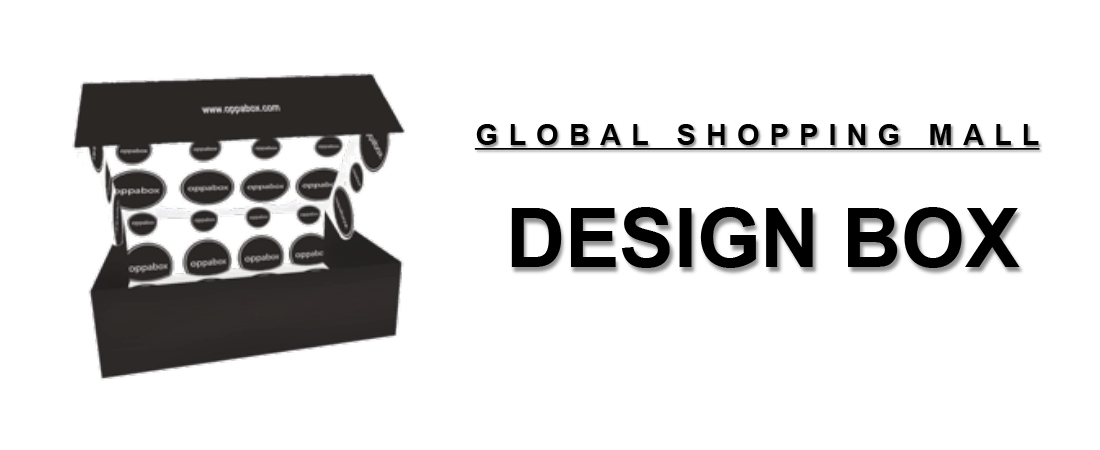
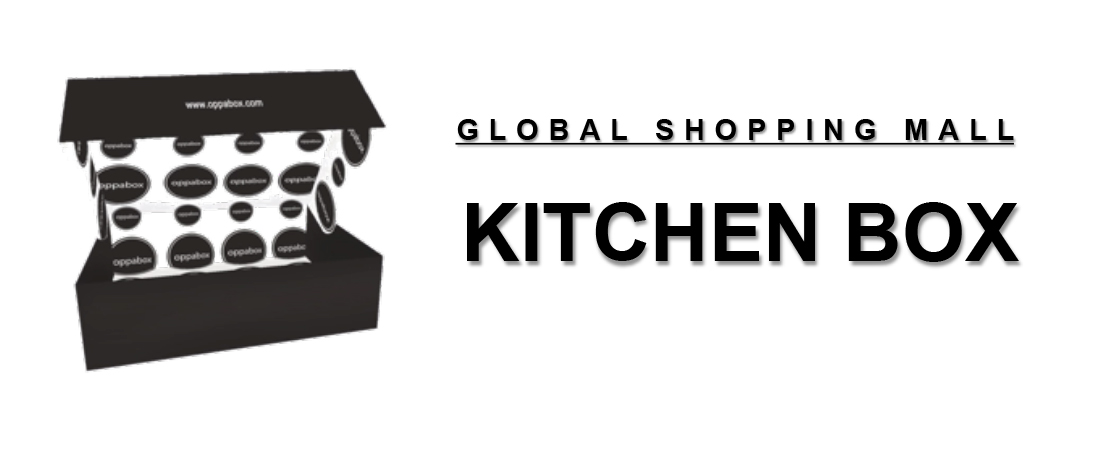
배너이미지 바꾸기

diff --git a/config/initializers/basic_setting.rb b/config/initializers/basic_setting.rb
@@ -1,2 +1,9 @@
-HOME_IMAGE = "/images/top/1.jpg"
+MAIN_BANR = "/images/top/1.jpg"
+STAR_BANR = "/images/top/2.jpg"
+DESIGN_BANR = "/images/top/3.jpg"
+BEAUTY_BANR = "/images/top/4.jpg"
+KITCHEN_BANR = "/images/top/5.jpg"
+GRIENICH_BANR = "/images/top/6.jpg"
+JEWELRY_BANR = "/images/top/7.jpg"
+
 BASE_ITEM_IMAGE_LOCATION = "/images/items"
